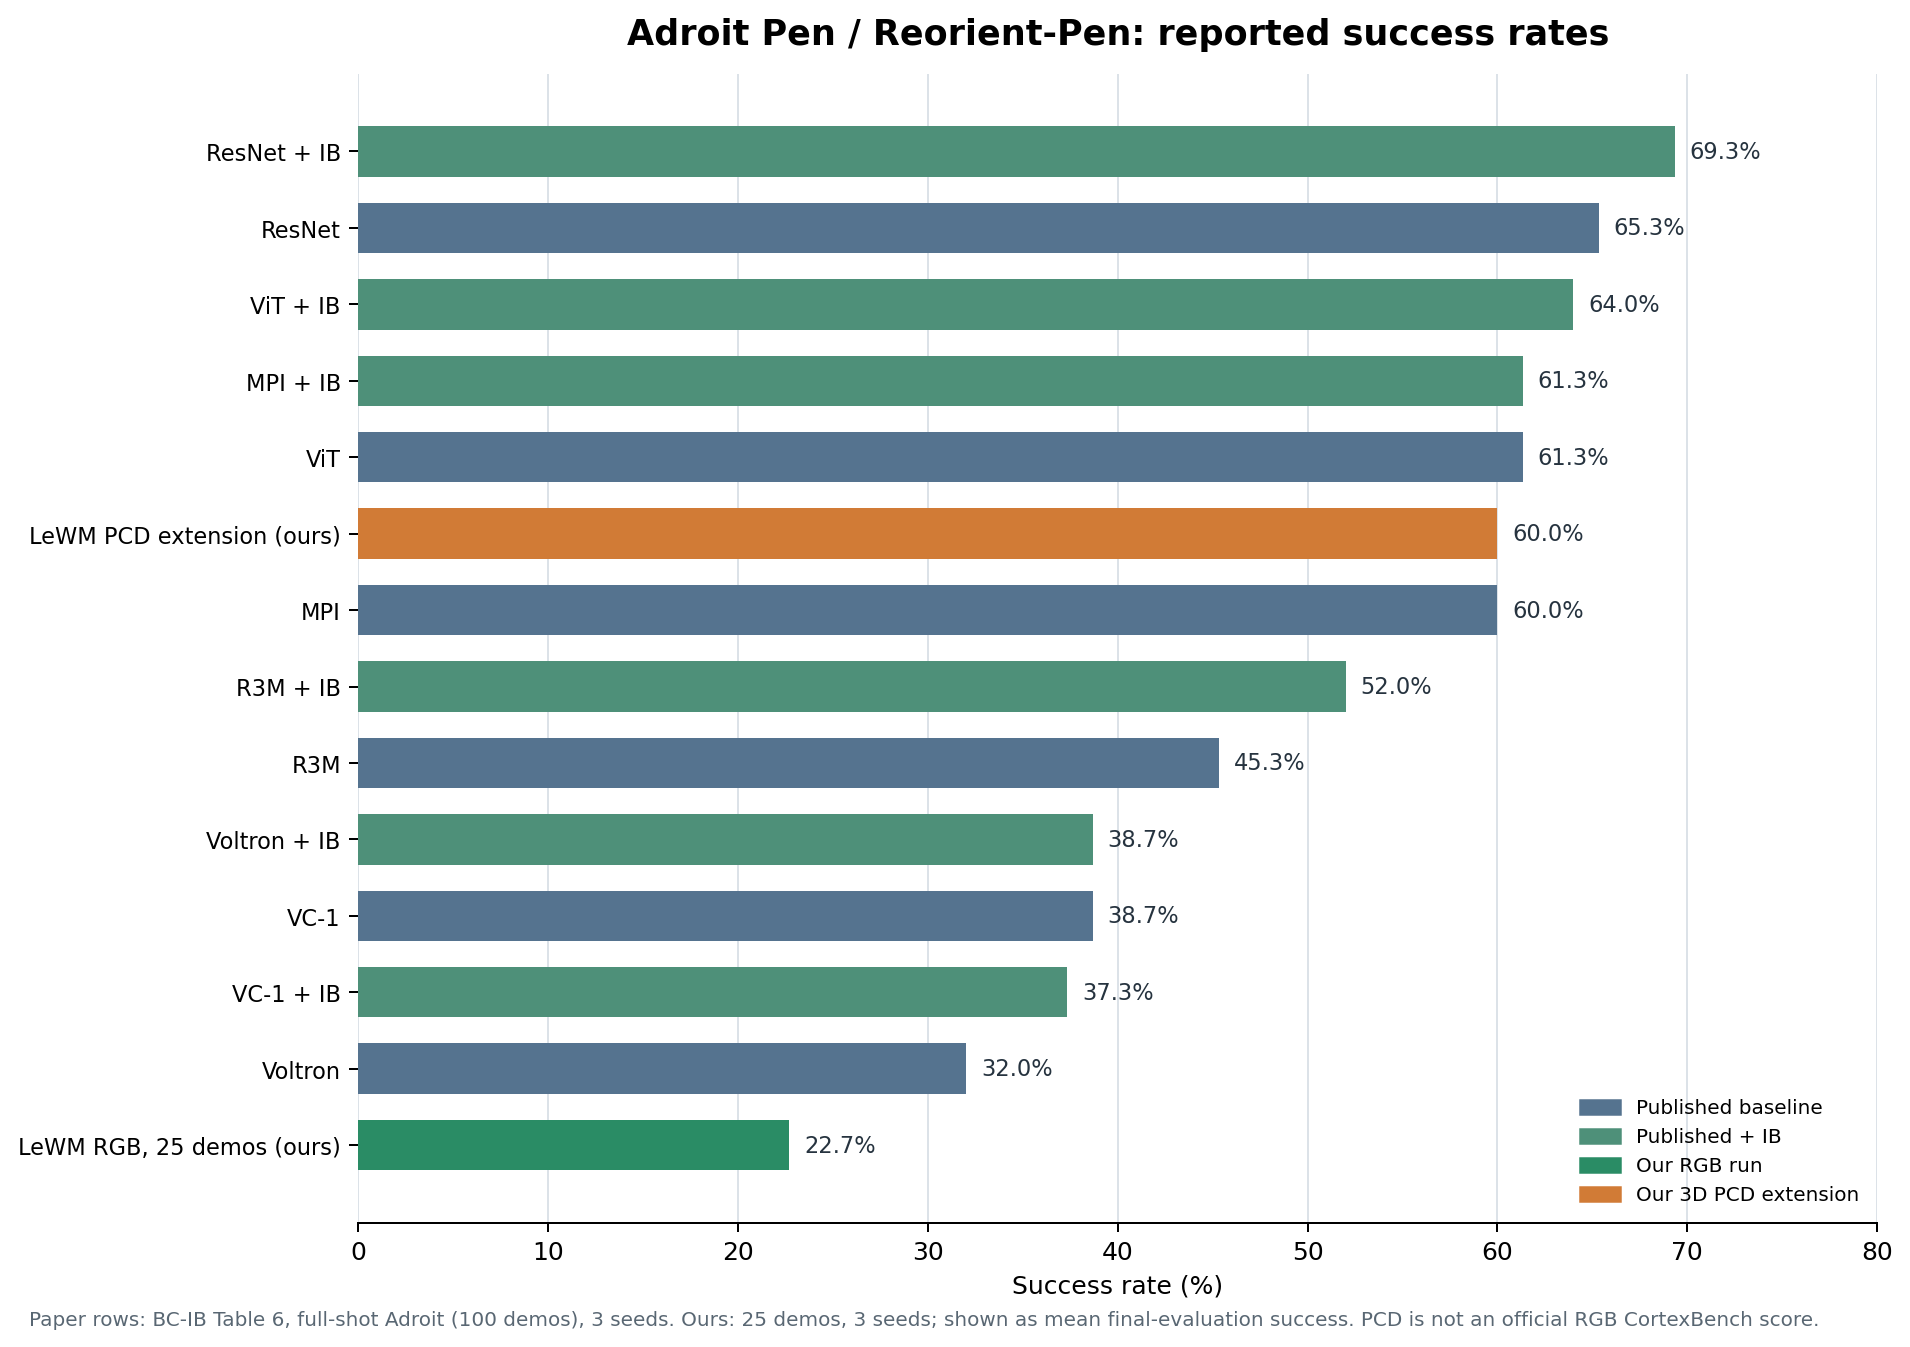
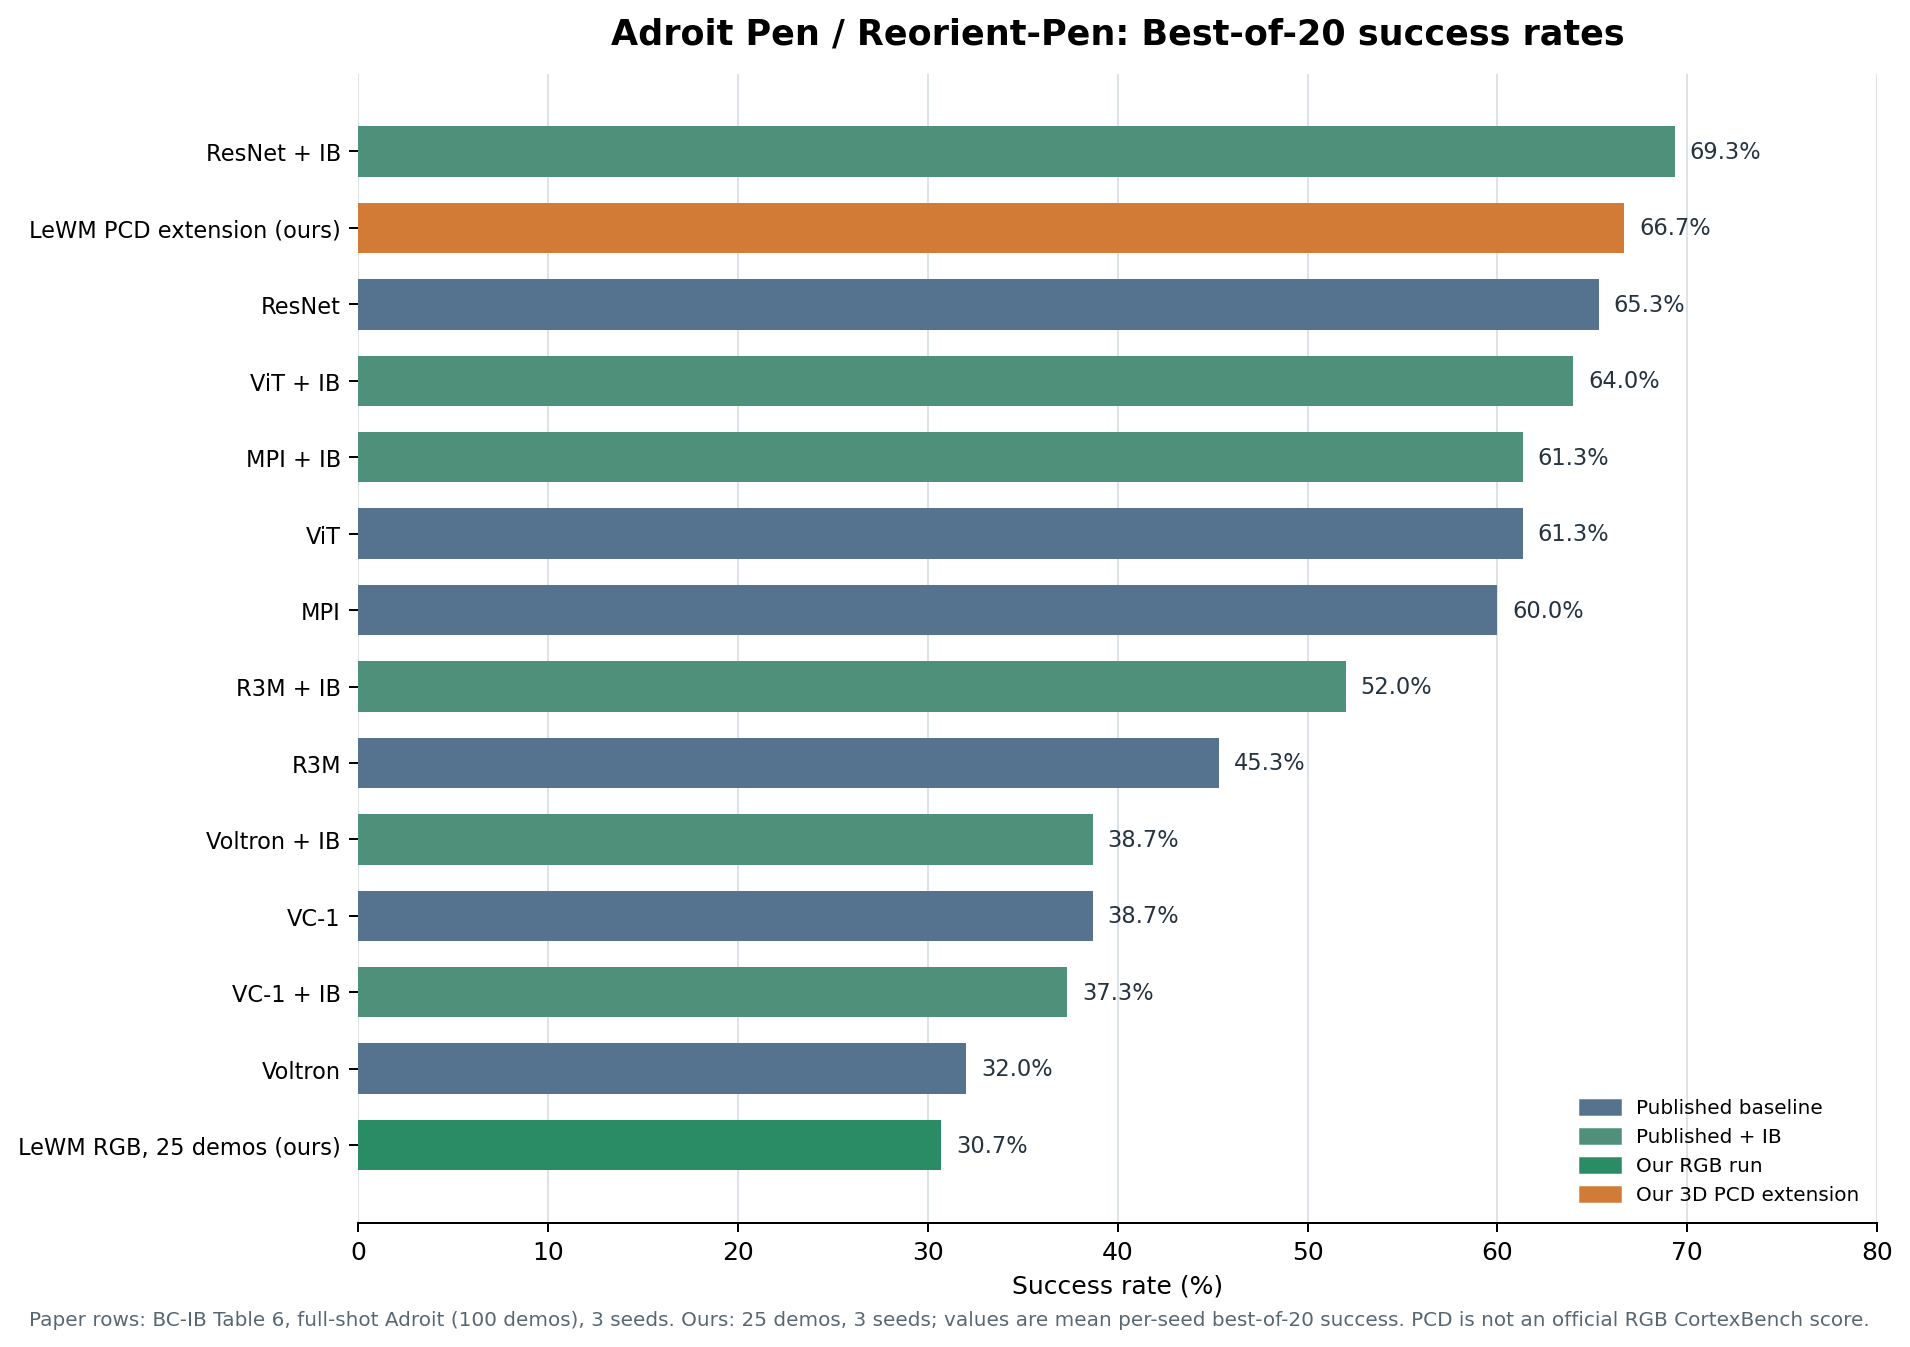
fix: make best-of-20 success the primary score

diff --git a/lewm_pcd/bench/cortexbench/summarize.py b/lewm_pcd/bench/cortexbench/summarize.py
@@ -71,17 +71,27 @@ for m in models:
     res[m] = {}
     for t, vals in runs[m].items():
         vals = sorted(vals, key=lambda v: v[2])
-        res[m][t] = dict(best=round(float(np.mean([v[0] for v in vals])), 1), last=round(float(np.mean([v[1] for v in vals])), 1),
-                         seeds={int(v[2]): round(float(v[0]), 1) for v in vals}, paper=PAPER.get(m, {}).get(t))
+        best_values = [v[0] for v in vals]
+        final_values = [v[1] for v in vals]
+        res[m][t] = dict(
+            best=round(float(np.mean(best_values)), 1),
+            best_std=round(float(np.std(best_values)), 1),
+            last=round(float(np.mean(final_values)), 1),
+            last_std=round(float(np.std(final_values)), 1),
+            seeds={int(v[2]): round(float(v[0]), 1) for v in vals},
+            final_seeds={int(v[2]): round(float(v[1]), 1) for v in vals},
+            paper=PAPER.get(m, {}).get(t),
+        )
 
-lines = ['单个种子的分数 = 20 次评测中的最高值（Adroit / MetaWorld：成功率 %；DMC：回报 / 10），表中是种子均值，'
-         '括号里是各种子；"末轮"= 最后一次评测的种子均值（不做 20 选 1）；"论文"= VC-1 论文表 8。', '']
+lines = ['主指标 Best-of-20 = 每个 seed 的 20 次评测最高值，再跨 seed 求均值 ± 标准差（Adroit / MetaWorld：成功率 %；DMC：回报 / 10）。'
+         'Final = 每个 seed 最后一次评测值，仅作次指标；"论文"= VC-1 论文表 8。', '']
 for t in tasks:
-    lines += [f'### {t}', '', '| 模型 | 种子 | 均值 | 论文 | 末轮 |', '|---|---|---|---|---|']
+    lines += [f'### {t}', '', '| 模型 | Best-of-20 seeds | Best-of-20 mean ± std | 论文 | Final mean ± std |', '|---|---|---:|---:|---:|']
     for m in sorted((m for m in models if t in res[m]), key=lambda m: -res[m][t]['best']):
         r = res[m][t]
-        lines.append(f"| {LABELS.get(m, m)} | {' / '.join(f'{v:g}' for v in r['seeds'].values())} | {r['best']} | "
-                     f"{'—' if r['paper'] is None else r['paper']} | {r['last']} |")
+        best_seeds = ' / '.join(f'{v:g}' for v in r['seeds'].values())
+        lines.append(f"| {LABELS.get(m, m)} | {best_seeds} | {r['best']} ± {r['best_std']} | "
+                     f"{'—' if r['paper'] is None else r['paper']} | {r['last']} ± {r['last_std']} |")
     lines.append('')
 suites = defaultdict(list)
 for env, (suite, short) in TASKS.items():
@@ -94,6 +104,6 @@ for m in models:
 if suite_rows:
     lines += ['### suite 均值（该 suite 每个任务都有结果时）', '', '| 模型 | Adroit | MetaWorld | DMControl |', '|---|---|---|---|'] + suite_rows
 OUT.mkdir(parents=True, exist_ok=True)
-(OUT / 'scores.json').write_text(json.dumps(res, ensure_ascii=False, indent=1))
-(OUT / 'scores.md').write_text('\n'.join(lines) + '\n')
+(OUT / 'scores.json').write_text(json.dumps(res, ensure_ascii=False, indent=1), encoding='utf-8')
+(OUT / 'scores.md').write_text('\n'.join(lines) + '\n', encoding='utf-8')
 print('\n'.join(lines))

diff --git a/lewm_pcd/scripts/checks/test_cortexbench_summarize.py b/lewm_pcd/scripts/checks/test_cortexbench_summarize.py
@@ -1,0 +1,37 @@
+import json
+import os
+import subprocess
+import sys
+from pathlib import Path
+
+
+def test_summarize_uses_best_of_twenty_as_primary_and_reports_final_as_secondary(tmp_path):
+    runs = tmp_path / "logs" / "cortexbench" / "runs" / "lewm_adroit_rgb" / "pen-v0"
+    for seed, best, final in ((100, 60.0, 10.0), (200, 70.0, 20.0), (300, 80.0, 30.0)):
+        run = runs / f"s{seed}"
+        run.mkdir(parents=True)
+        (run / "DONE").write_text(json.dumps({
+            "model": "lewm_adroit_rgb",
+            "env": "pen-v0",
+            "seed": seed,
+            "highest_success": best,
+            "final_success": final,
+        }) + "\n", encoding="utf-8")
+
+    env = os.environ.copy()
+    env["STABLEWM_HOME"] = str(tmp_path)
+    script = Path(__file__).resolve().parents[2] / "bench" / "cortexbench" / "summarize.py"
+    result = subprocess.run([sys.executable, str(script)], env=env, capture_output=True, text=True)
+    assert result.returncode == 0, result.stderr
+
+    score = json.loads((tmp_path / "logs" / "cortexbench" / "results" / "scores.json").read_text())["lewm_adroit_rgb"]["pen"]
+    assert score["best"] == 70.0
+    assert score["best_std"] == 8.2
+    assert score["last"] == 20.0
+    assert score["last_std"] == 8.2
+    assert score["seeds"] == {"100": 60.0, "200": 70.0, "300": 80.0}
+    assert score["final_seeds"] == {"100": 10.0, "200": 20.0, "300": 30.0}
+
+    report = (tmp_path / "logs" / "cortexbench" / "results" / "scores.md").read_text(encoding="utf-8")
+    assert "Best-of-20" in report
+    assert "Final" in report

diff --git a/README.md b/README.md
@@ -39,20 +39,20 @@ flowchart LR
 
 ## 下游 BC 成绩
 
-BC 配置：每个 seed 25 demos、100 epochs、每 5 epochs 评测、每次 25 条轨迹；seeds `100/200/300`。表中“最终”是 epoch 99 的 success，“训练最高”是 20 次评测中的最高 success。均值按三个 seed 等权计算。
+BC 配置：每个 seed 25 demos、100 epochs、每 5 epochs 评测、每次 25 条轨迹；seeds `100/200/300`。**主指标是每个 seed 在 20 次评测中的最高 success，再跨 seed 求均值和标准差**；最后一次 evaluator success 只作为次指标。均值按三个 seed 等权计算。
 
 2D BC 使用官方 RGB demos；PCD BC 则把官方 100 条 Pen demos 按原 action 逐条重放并转换成 PCD，再从中取 25 条训练。10,000 条新采集 paired episodes 用于 LeWM 世界模型训练，不与 BC 的官方 demos 混为同一训练集。
 
-| 轨道 | Seed 100 最终 / 最高 | Seed 200 最终 / 最高 | Seed 300 最终 / 最高 | 最终均值 | 最高均值 |
+| 轨道 | Seed 100 best / final | Seed 200 best / final | Seed 300 best / final | **Best-of-20 均值 ± std** | Final 均值 ± std |
 |---|---:|---:|---:|---:|---:|
-| LeWM 2D RGB | 16% / 28% | 24% / 32% | 28% / 32% | **22.7%** | **30.7%** |
-| LeWM 3D PCD 扩展 | 52% / 68% | 68% / 68% | 60% / 64% | **60.0%** | **66.7%** |
+| LeWM 2D RGB | 28% / 16% | 32% / 24% | 32% / 28% | **30.7% ± 1.9%** | 22.7% ± 5.0% |
+| LeWM 3D PCD 扩展 | 68% / 52% | 68% / 68% | 64% / 60% | **66.7% ± 1.9%** | 60.0% ± 6.5% |
 
 所有 6 个 seed 均完成 100 loss records、20 evaluator records，进程退出码为 0，policy pickle 可加载。PCD retry seed 300 的输出在 `/autodl-fs/data/lewm/cortexbench-adroit-pen-pcd-bc-retry-seed300-run2-20260929-v1`。上述 PCD 结果单独标记，不并入 RGB 榜单。
 
 ## 公开结果对照
 
-下图的论文行取自 BC-IB 论文 Table 6 的 **Reorient-Pen** 任务；论文对 Adroit 使用 100 demos、3 seeds。我们本次使用 25 demos，因此这张图用于结果定位，**不构成同配置排行榜或严格 apples-to-apples 对比**。PCD 更不是论文的 RGB 输入结果。
+下图的论文行取自 BC-IB 论文 Table 6 的 **Reorient-Pen** 任务；论文对 Adroit 使用 100 demos、3 seeds。我们本次使用 25 demos，因此这张图用于结果定位，**不构成同配置排行榜或严格 apples-to-apples 对比**。本图的本次结果也统一使用 Best-of-20 主指标；PCD 更不是论文的 RGB 输入结果。
 
 ![Published Reorient-Pen baselines and our RGB and PCD results](docs/figures/adroit_pen_success_comparison.png)
 
@@ -70,15 +70,15 @@ BC 配置：每个 seed 25 demos、100 epochs、每 5 epochs 评测、每次 25 
 | VC-1 + IB | 37.33% |
 | Voltron + IB | 38.67% |
 | Voltron | 32.00% |
-| **本次 LeWM 2D RGB，25 demos** | **22.7% 最终均值** |
-| **本次 LeWM 3D PCD 扩展，25 demos** | **60.0% 最终均值** |
+| **本次 LeWM 2D RGB，25 demos** | **30.7% Best-of-20 均值** |
+| **本次 LeWM 3D PCD 扩展，25 demos** | **66.7% Best-of-20 均值** |
 
 原始 VC-1 CortexBench 论文的 `Adroit` 列是 **Reorient-Pen 与 Relocate 的 benchmark-level 汇总**，不是 Pen 单任务数值；因此这里用后续论文的 task-wise Reorient-Pen 表作参考，避免把不同粒度的数字混在一起。[BC-IB Table 6](https://raw.githubusercontent.com/mlresearch/v267/main/assets/bai25e/bai25e.pdf) · [原始 CortexBench / VC-1 论文](https://papers.nips.cc/paper_files/paper/2023/file/022ca1bed6b574b962c48a2856eb207b-Paper-Conference.pdf)
 
 ## 结果解释与边界
 
 - 本次验证了从 paired 数据采集、2D/3D LeWM 训练到 BC 评测的完整工程路径；各阶段保留了 state、metrics、配置、退出码和模型产物。
-- 在本次 25-demo 设置下，PCD 扩展的最终均值高于 RGB 轨道；由于视觉模态、checkpoint 和论文 demo 数不同，这只说明本次实验观察到的差异，不能据此断言 PCD 普遍优于 RGB。
+- 在本次 25-demo 设置下，PCD 扩展的 Best-of-20 均值高于 RGB 轨道；由于视觉模态、checkpoint 和论文 demo 数不同，这只说明本次实验观察到的差异，不能据此断言 PCD 普遍优于 RGB。
 - 官方 legacy BC 环境是 CPU-only PyTorch；本次观测到训练进程约 199% CPU、GPU 峰值约 1%、RSS 峰值约 0.9 GiB。未为追求 GPU 利用率改变 MuJoCo 或 evaluator 协议。
 
 ## 主要产物
